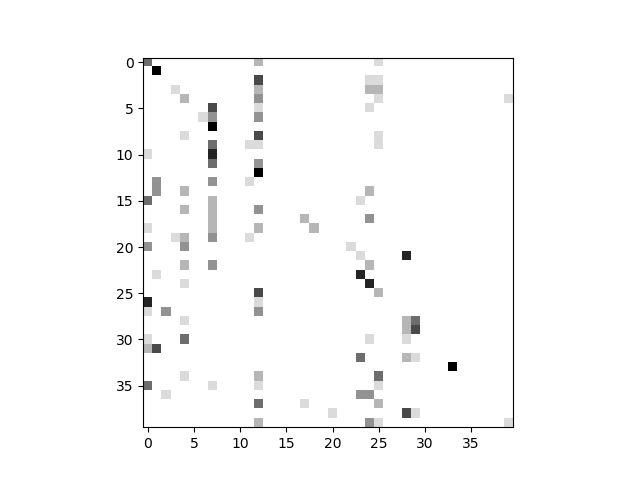
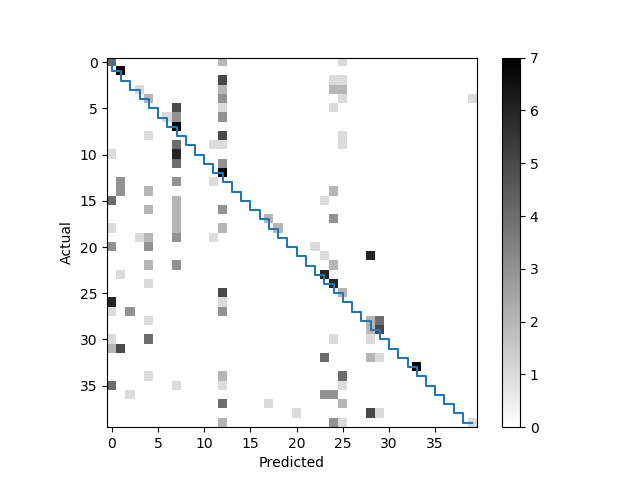
better conf_matrix get rekt nub and remaining metrics oh ye bby

diff --git a/compressor_results.py b/compressor_results.py
@@ -4,17 +4,21 @@ from zlib_face_identification import zlib_results
 from lzma_face_identification import lzma_results
 from lz4_face_identification import lz4_results
 from brotli_face_identification import brotli_results
-
-from sklearn.metrics import confusion_matrix
+import warnings
+warnings.filterwarnings("ignore")
+from sklearn.metrics import confusion_matrix, classification_report
 
 from time import time as tm
 import re, os
 import matplotlib.pyplot as plt
+import numpy as np
 
 
 def main():
     #compressor_results = [gzip_results, bz2_results, zlib_results, lz4_results, lzma_results, brotli_results]
     compressor_results = [lz4_results]
+    file_path = os.path.join(os.getcwd(), "results", "metrics", "metrics_NCD.txt")
+    f = open(file_path, "w")
     for results in compressor_results:
         comp_name = results.__name__
         accuracy = 0
@@ -30,12 +34,25 @@ def main():
                 pred_case.append(result[0])
         print("Positive Results: {}, Accuracy: {}%".format(accuracy, round(accuracy / 280 * 100, 1)))
         print("Elapsed Time: {} sec.".format(round(tm() - start, 2)))
+
+        x = range(0, 40, 1)
+        metrics = classification_report(true_case, pred_case, target_names=["Subject "+str(i+1) for i in x])
         conf_matrix = confusion_matrix(true_case, pred_case)
-        print(conf_matrix)
-        plt.imshow(conf_matrix, cmap='binary', interpolation='None')
+        conf_matrix = conf_matrix.astype('float') / conf_matrix.sum(axis=1)[:, np.newaxis]
+        plt.imshow(conf_matrix,cmap='binary', interpolation='None')
+        plt.colorbar()
+        plt.step(x,x)
+        plt.ylabel("Actual")
+        plt.xlabel("Predicted")
+
         if not os.path.exists(os.path.join(os.getcwd(), "results", "conf_matrix")):
             os.makedirs(os.path.join(os.getcwd(), "results", "conf_matrix"))
+        if not os.path.exists(os.path.join(os.getcwd(), "results", "metrics")):
+            os.makedirs(os.path.join(os.getcwd(), "results", "metrics"))
         plt.savefig(os.path.join(os.getcwd(), "results", "conf_matrix", comp_name + "_confusion_matrix.png"))
+        f.write("{} metrics:\n\n".format(comp_name))
+        f.write(metrics)
+    f.close()
 
 if __name__ == '__main__':
     main()
